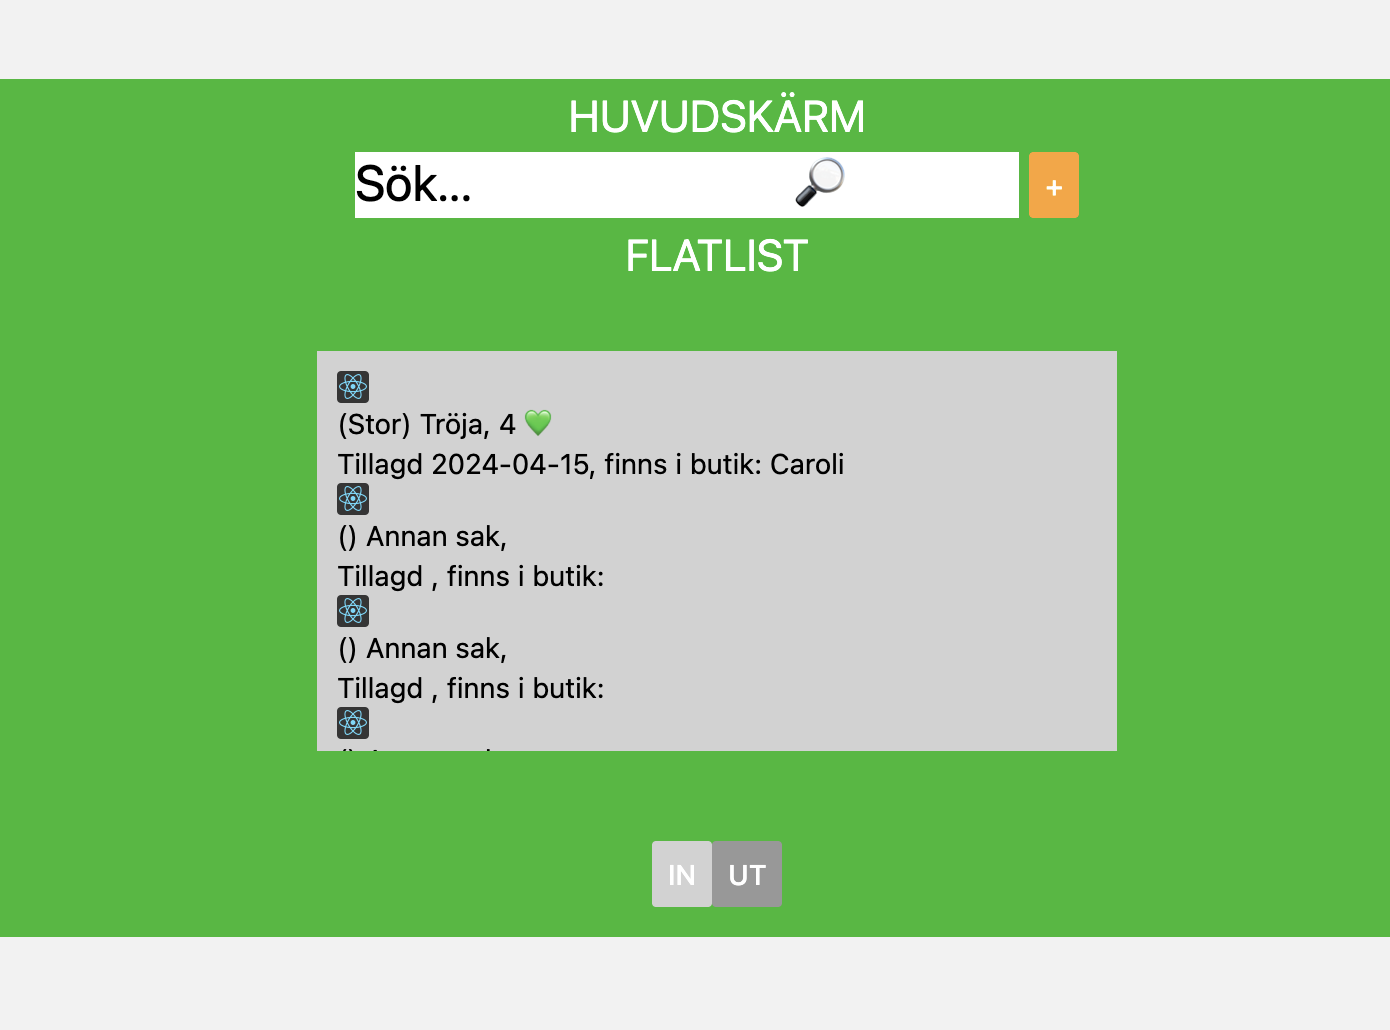
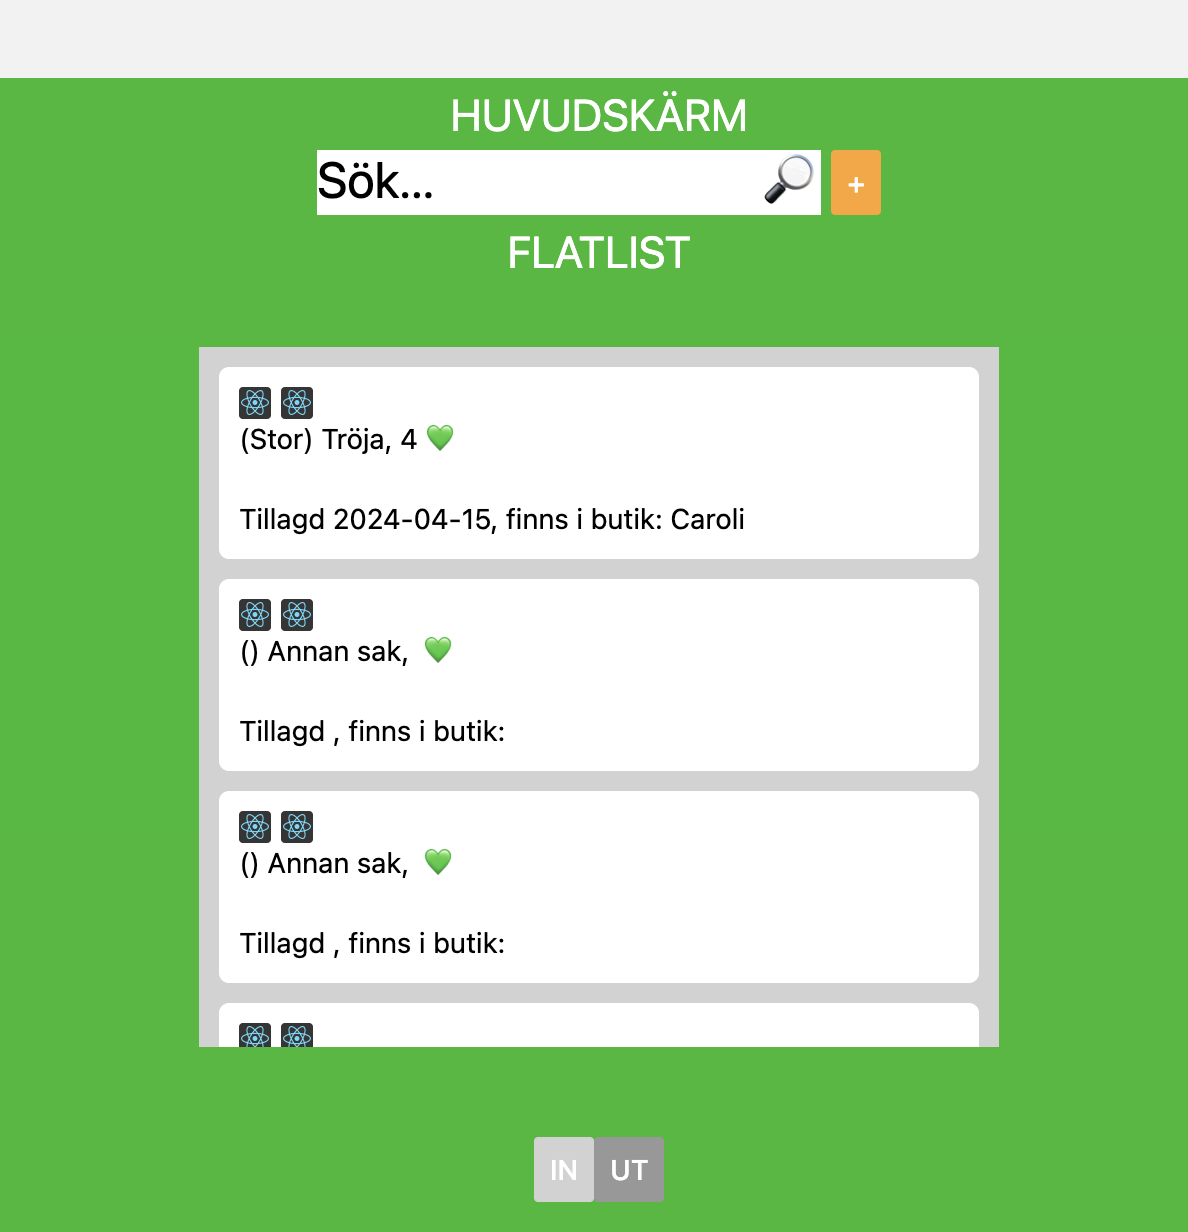
Navigering till och från detaljvy (med uppdaterad bild som visar varsin Pressable)

diff --git a/app/index.tsx b/app/index.tsx
@@ -1,3 +1,4 @@
+import { Link } from 'expo-router';
 import React, { useState } from "react";
 import { Button, Dimensions, FlatList, Image, Pressable, SafeAreaView, StyleSheet, Text, TextInput, View } from "react-native";
 import varor from "./models/varor.json"; //Must be moved to be inside the below function in future...
@@ -31,15 +32,17 @@ export default function Index() {
           renderItem={({ item }) => {
             return (
               // Ska alla plagg visa minst två bilder utanför detaljvyn?
-              <Pressable onPress={() => {}} style={{marginBottom: 10, padding: 10, backgroundColor: 'white', borderRadius: 5}}>
-                <View key={item.id}>
-                  <View style={{flexDirection: 'row', gap: 5}}>
-                    <Image source={require('@/assets/images/tiny_logo.png')} />
-                    <Image source={require('@/assets/images/tiny_logo.png')} />
+              <Link href="/detail" asChild>
+                <Pressable /*onPress={() => {}}*/ style={{marginBottom: 10, padding: 10, backgroundColor: 'white', borderRadius: 5}}>
+                  <View key={item.id}>
+                    <View style={{flexDirection: 'row', gap: 5}}>
+                      <Image source={require('@/assets/images/tiny_logo.png')} />
+                      <Image source={require('@/assets/images/tiny_logo.png')} />
+                    </View>
+                    <Text style={{lineHeight: 20}} key={item.id}>({item.size}) {item.title}, {item.valuation} 💚{'\n'}{'\n'}Tillagd {item.checkin}, finns i butik: {item.store}</Text>
                   </View>
-                  <Text style={{lineHeight: 20}} key={item.id}>({item.size}) {item.title}, {item.valuation} 💚{'\n'}{'\n'}Tillagd {item.checkin}, finns i butik: {item.store}</Text>
-                </View>
-              </Pressable>
+                </Pressable>
+              </Link>
             );
           }}
         />

diff --git a/app/models/product.tsx b/app/models/product.tsx
@@ -5,7 +5,7 @@ type ProductItemProps = { title: string, pic: string,
     size: Size, valuation: 0, checkin: Date, store: Store
 };
 
-export function ProductItem({title, pic, thumb, shortdesc, category = 0,
+export default function ProductItem({title, pic, thumb, shortdesc, category = 0,
     size = 0, valuation, checkin, store}: ProductItemProps) {
 
     return (
